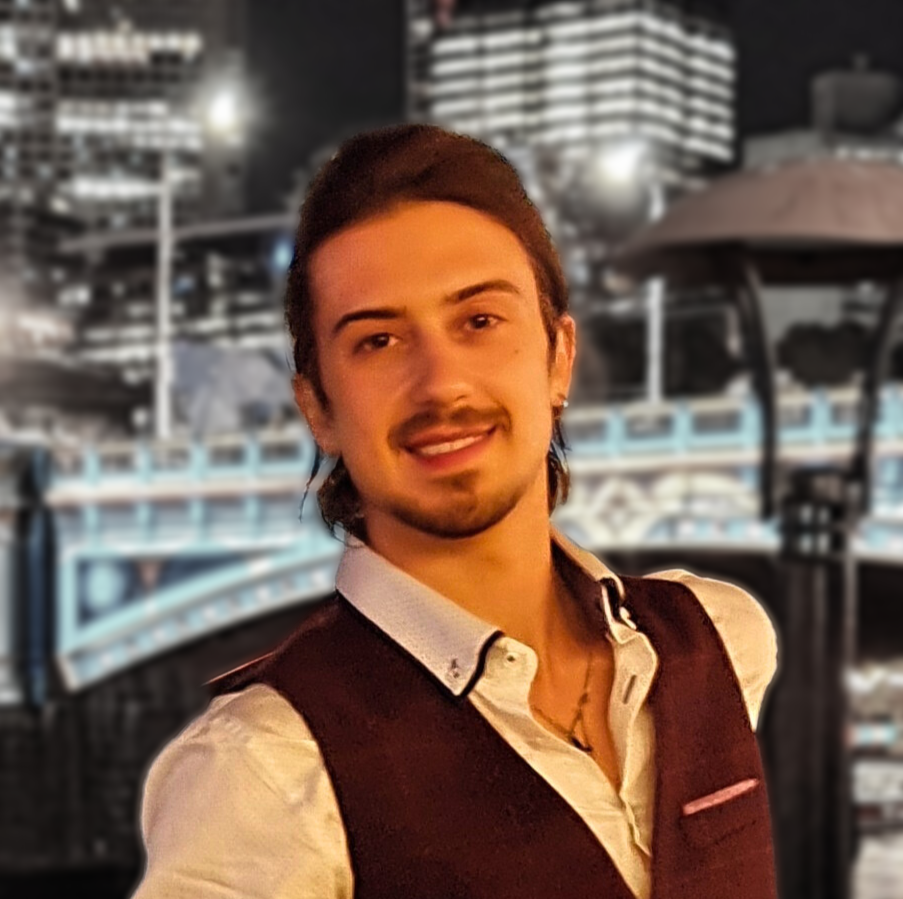
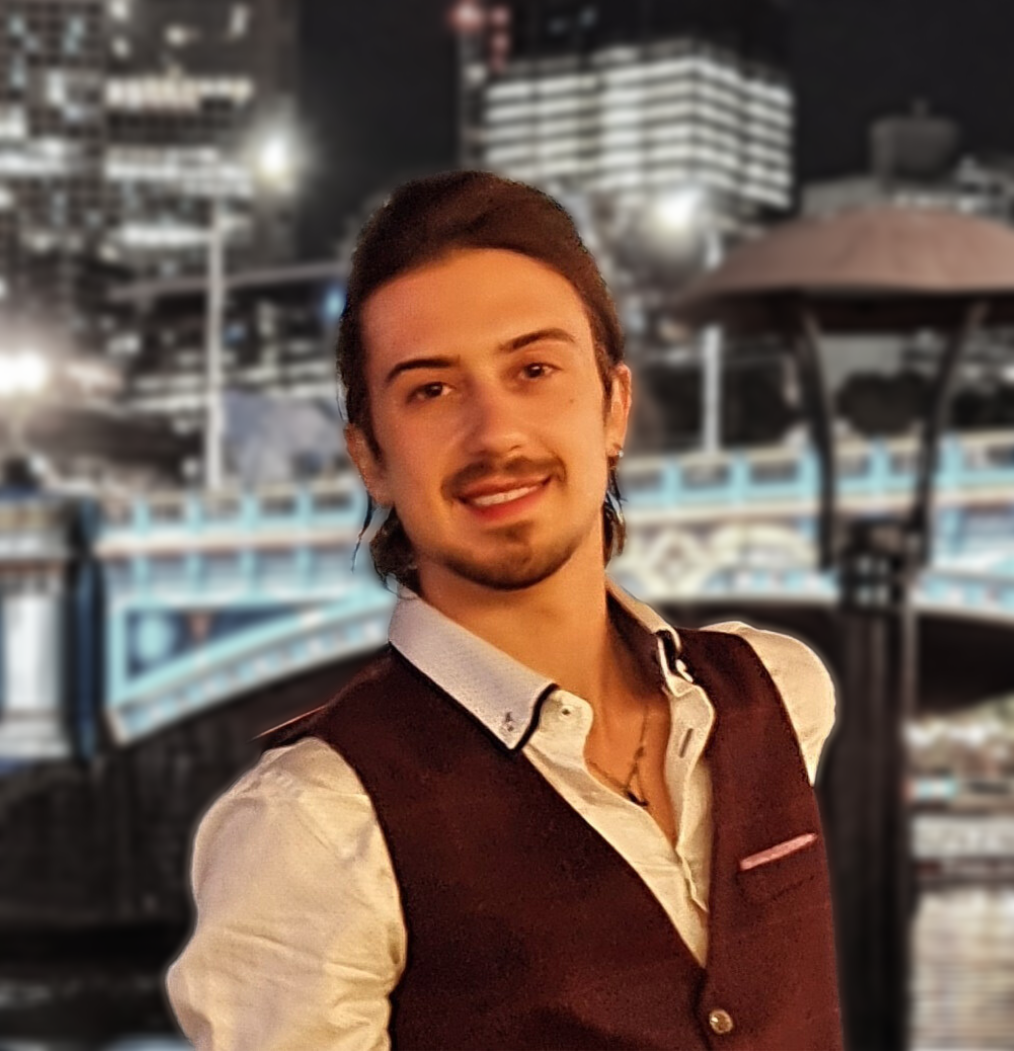
photo updated

diff --git a/styles/index-main.css b/styles/index-main.css
@@ -112,9 +112,6 @@
     align-items: center;
 }
 
-.profile {
-    text-align: center;
-}
 
 /* media query for desktop */
 @media screen and (width > 768px) {
